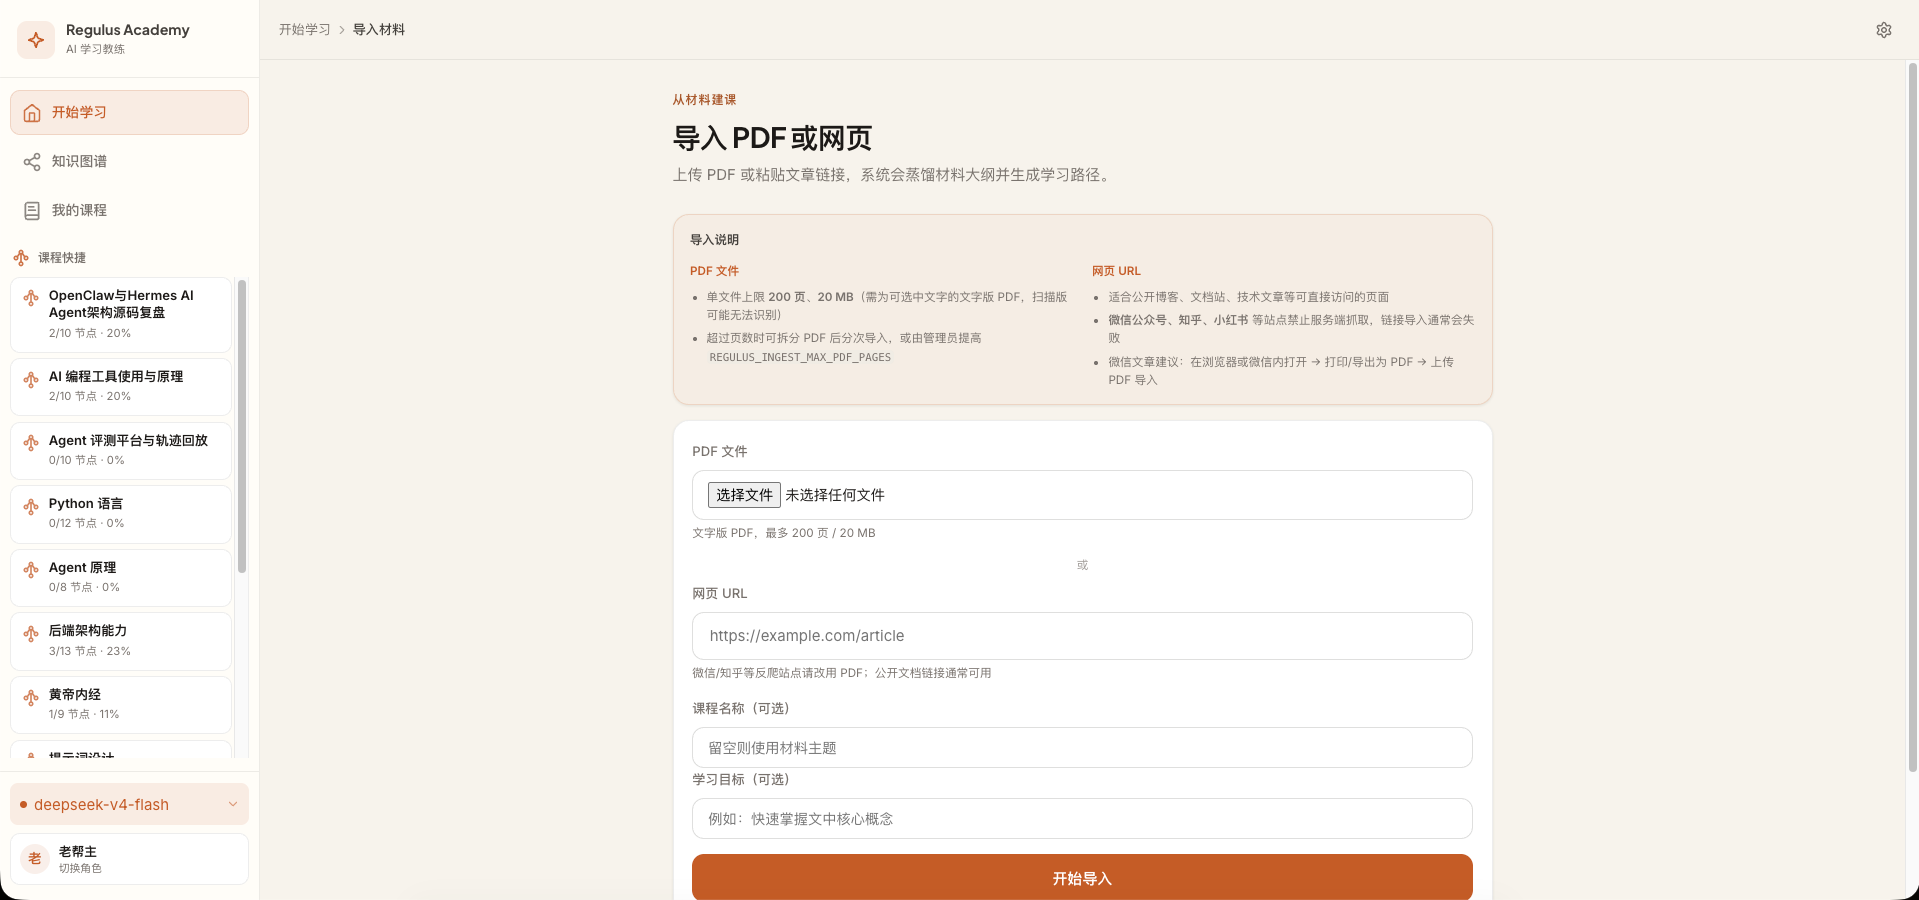
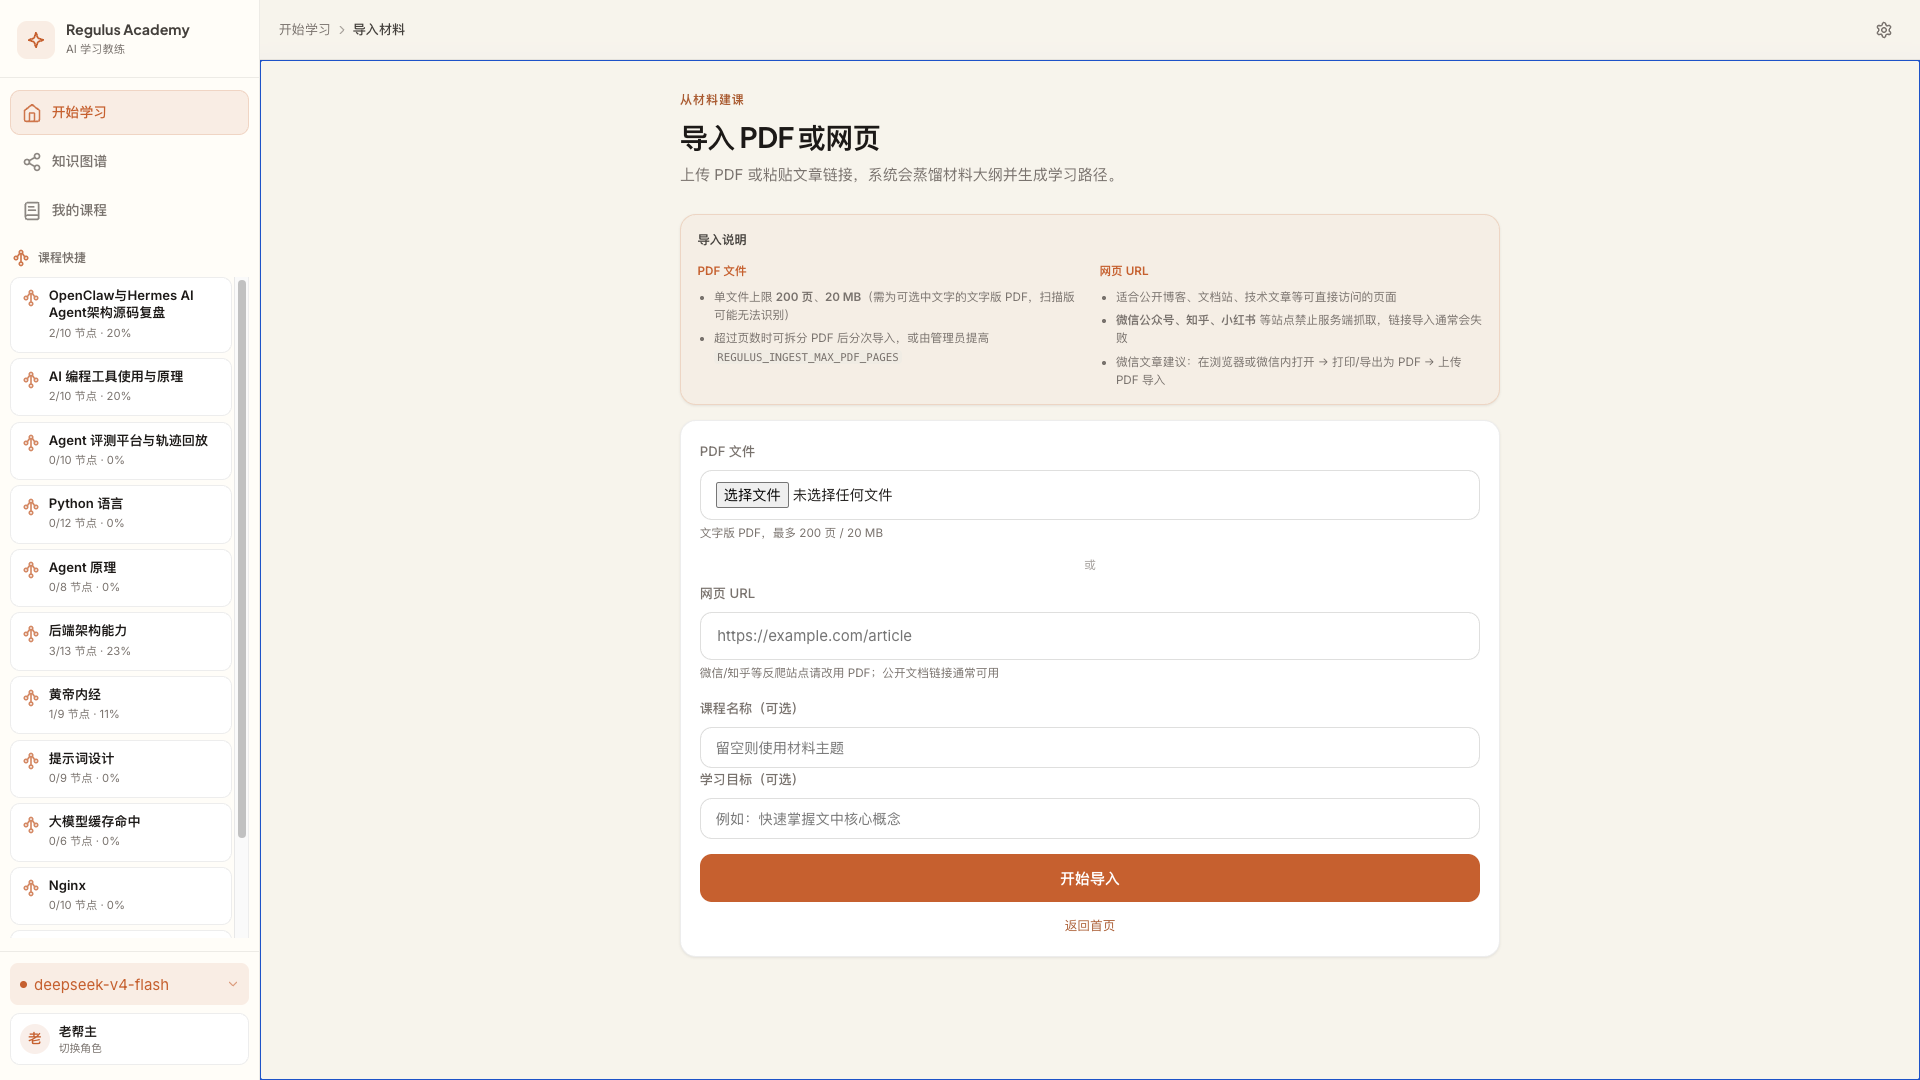
✨ feat: Update file picker UI and enhance import functionality
- Introduce a new file picker component for selecting PDF files, improving user experience with a more interactive interface.
- Update the import page to utilize the new file picker, including dynamic file name display and improved accessibility features.
- Revise associated styles in CSS to support the new file picker design, ensuring consistency across the application.
- Add functionality to update the displayed file name based on user selection, enhancing clarity during the import process.

diff --git a/web/src/pages/import.ts b/web/src/pages/import.ts
@@ -67,9 +67,19 @@ export function renderImport(container: HTMLElement): void {
         <div id="import-toast"></div>
         <div id="import-error"></div>
 
-        <label class="field-label" for="import-file">PDF 文件</label>
-        <input class="input" id="import-file" type="file" accept="application/pdf,.pdf" />
-        <p class="field-hint">文字版 PDF，最多 200 页 / 20 MB</p>
+        <span class="field-label" id="import-file-label">PDF 文件</span>
+        <div class="file-picker" role="group" aria-labelledby="import-file-label">
+          <input
+            class="file-picker-input"
+            id="import-file"
+            type="file"
+            accept="application/pdf,.pdf"
+            aria-describedby="import-file-hint import-file-name"
+          />
+          <label class="file-picker-trigger" for="import-file">选择 PDF</label>
+          <span class="file-picker-name is-empty" id="import-file-name">未选择文件</span>
+        </div>
+        <p class="field-hint" id="import-file-hint">文字版 PDF，最多 200 页 / 20 MB</p>
 
         <p class="field-hint import-or-divider">或</p>
 
@@ -90,6 +100,7 @@ export function renderImport(container: HTMLElement): void {
   `
 
   const fileInput = container.querySelector<HTMLInputElement>('#import-file')!
+  const fileNameEl = container.querySelector<HTMLElement>('#import-file-name')!
   const urlInput = container.querySelector<HTMLInputElement>('#import-url')!
   const nameInput = container.querySelector<HTMLInputElement>('#import-name')!
   const goalInput = container.querySelector<HTMLInputElement>('#import-goal')!
@@ -177,6 +188,14 @@ export function renderImport(container: HTMLElement): void {
       void refreshLLMStatusAfterBusy()
     }
   }
+
+  const syncFileName = () => {
+    const file = fileInput.files?.[0]
+    fileNameEl.textContent = file ? file.name : '未选择文件'
+    fileNameEl.classList.toggle('is-empty', !file)
+  }
+
+  fileInput.addEventListener('change', syncFileName)
 
   btn.addEventListener('click', () => void submit())
   container.addEventListener('destroy', () => unsub(), { once: true })

diff --git a/web/src/style.css b/web/src/style.css
@@ -4463,6 +4463,76 @@ body.has-tree-session-overlay {
   opacity: 0.7;
 }
 
+.file-picker {
+  display: flex;
+  align-items: center;
+  gap: 0.75rem;
+  min-height: 2.75rem;
+  padding: 0.45rem 0.85rem 0.45rem 0.45rem;
+  border: 1px solid var(--border-strong);
+  border-radius: var(--radius);
+  background: var(--surface);
+  transition: border-color var(--transition), box-shadow var(--transition);
+}
+
+.file-picker:focus-within {
+  border-color: var(--brand);
+  box-shadow: 0 0 0 3px var(--brand-soft);
+}
+
+.file-picker-input {
+  position: absolute;
+  width: 1px;
+  height: 1px;
+  padding: 0;
+  margin: -1px;
+  overflow: hidden;
+  clip: rect(0, 0, 0, 0);
+  white-space: nowrap;
+  border: 0;
+}
+
+.file-picker-trigger {
+  flex-shrink: 0;
+  display: inline-flex;
+  align-items: center;
+  justify-content: center;
+  padding: 0.45rem 0.9rem;
+  font-size: 0.875rem;
+  font-weight: 600;
+  font-family: inherit;
+  color: var(--brand);
+  background: var(--brand-soft);
+  border: 1px solid rgba(196, 92, 38, 0.22);
+  border-radius: calc(var(--radius) - 2px);
+  cursor: pointer;
+  transition: background var(--transition), border-color var(--transition), color var(--transition);
+}
+
+.file-picker-trigger:hover {
+  background: rgba(196, 92, 38, 0.14);
+  border-color: rgba(196, 92, 38, 0.35);
+}
+
+.file-picker-trigger:focus-visible {
+  outline: 2px solid var(--brand);
+  outline-offset: 2px;
+}
+
+.file-picker-name {
+  flex: 1;
+  min-width: 0;
+  font-size: 0.9rem;
+  color: var(--text);
+  white-space: nowrap;
+  overflow: hidden;
+  text-overflow: ellipsis;
+}
+
+.file-picker-name.is-empty {
+  color: var(--muted);
+}
+
 .channel-form {
   display: flex;
   flex-direction: column;
